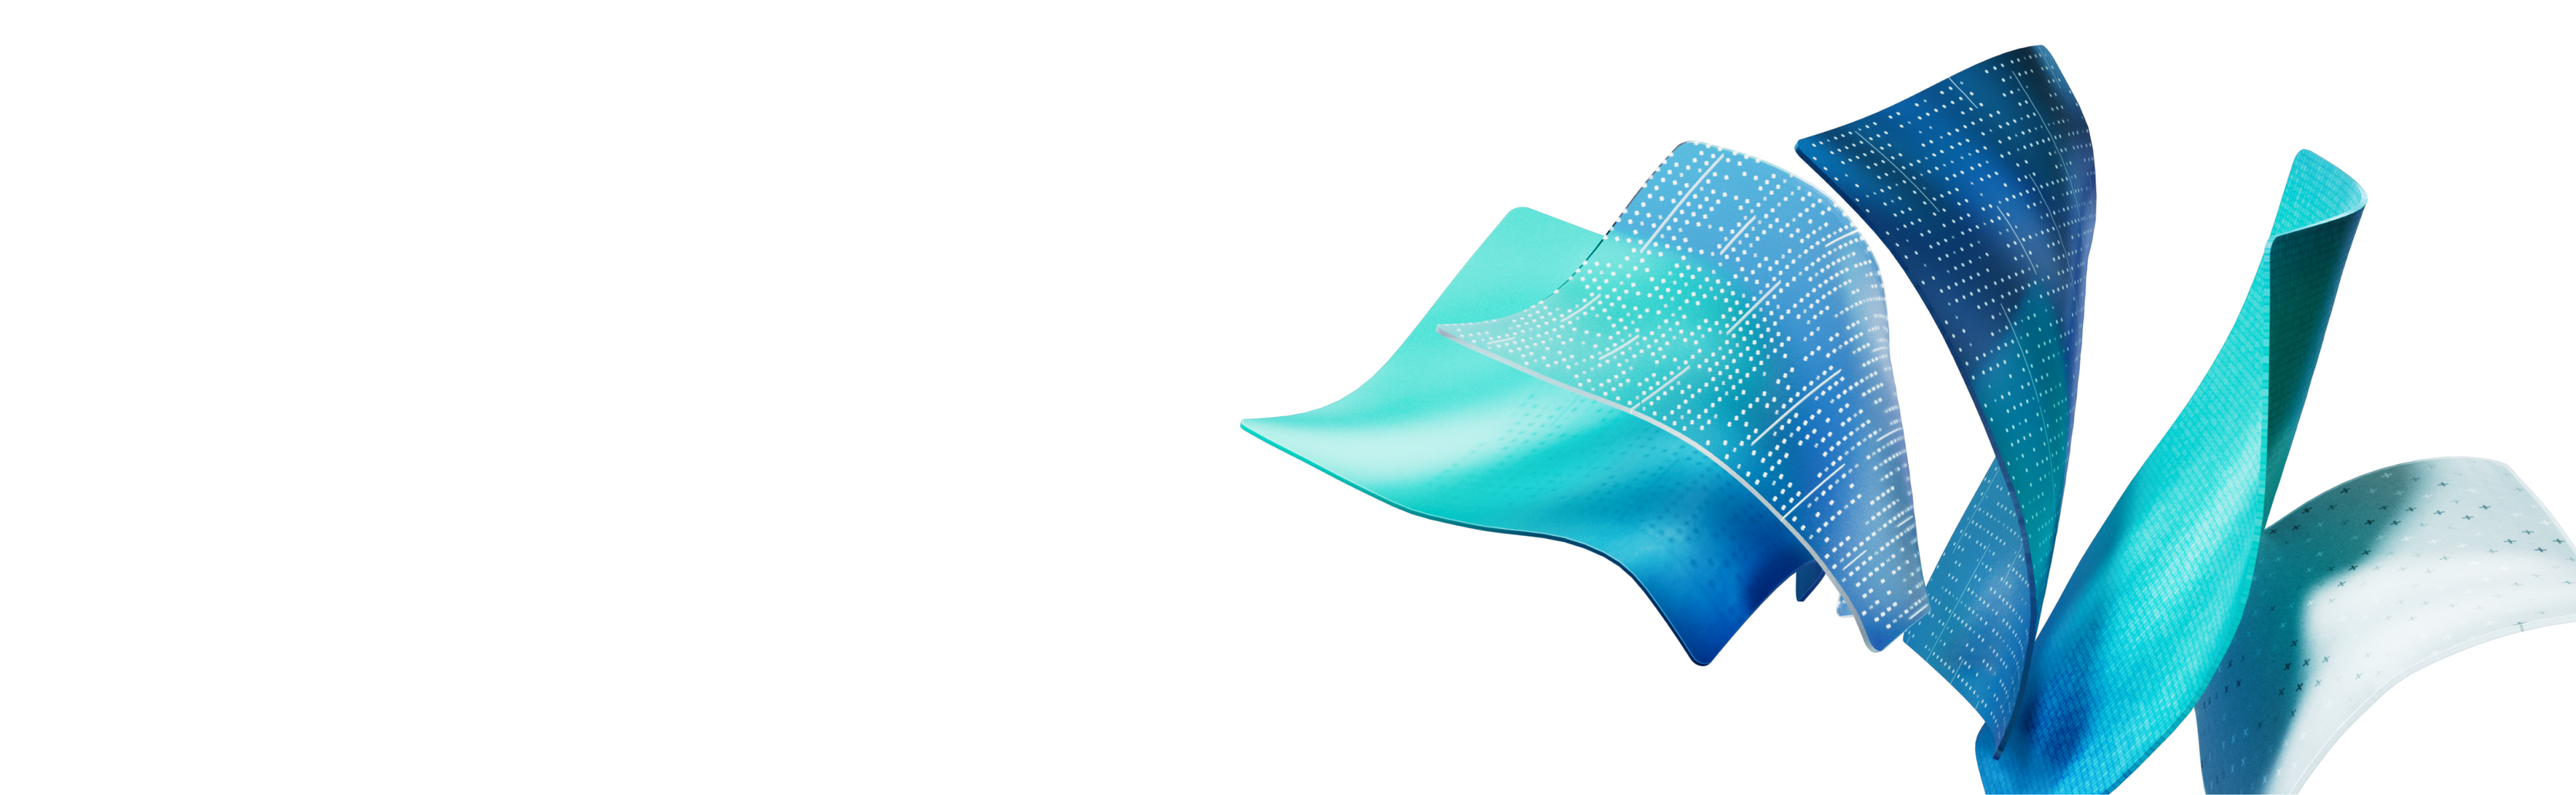
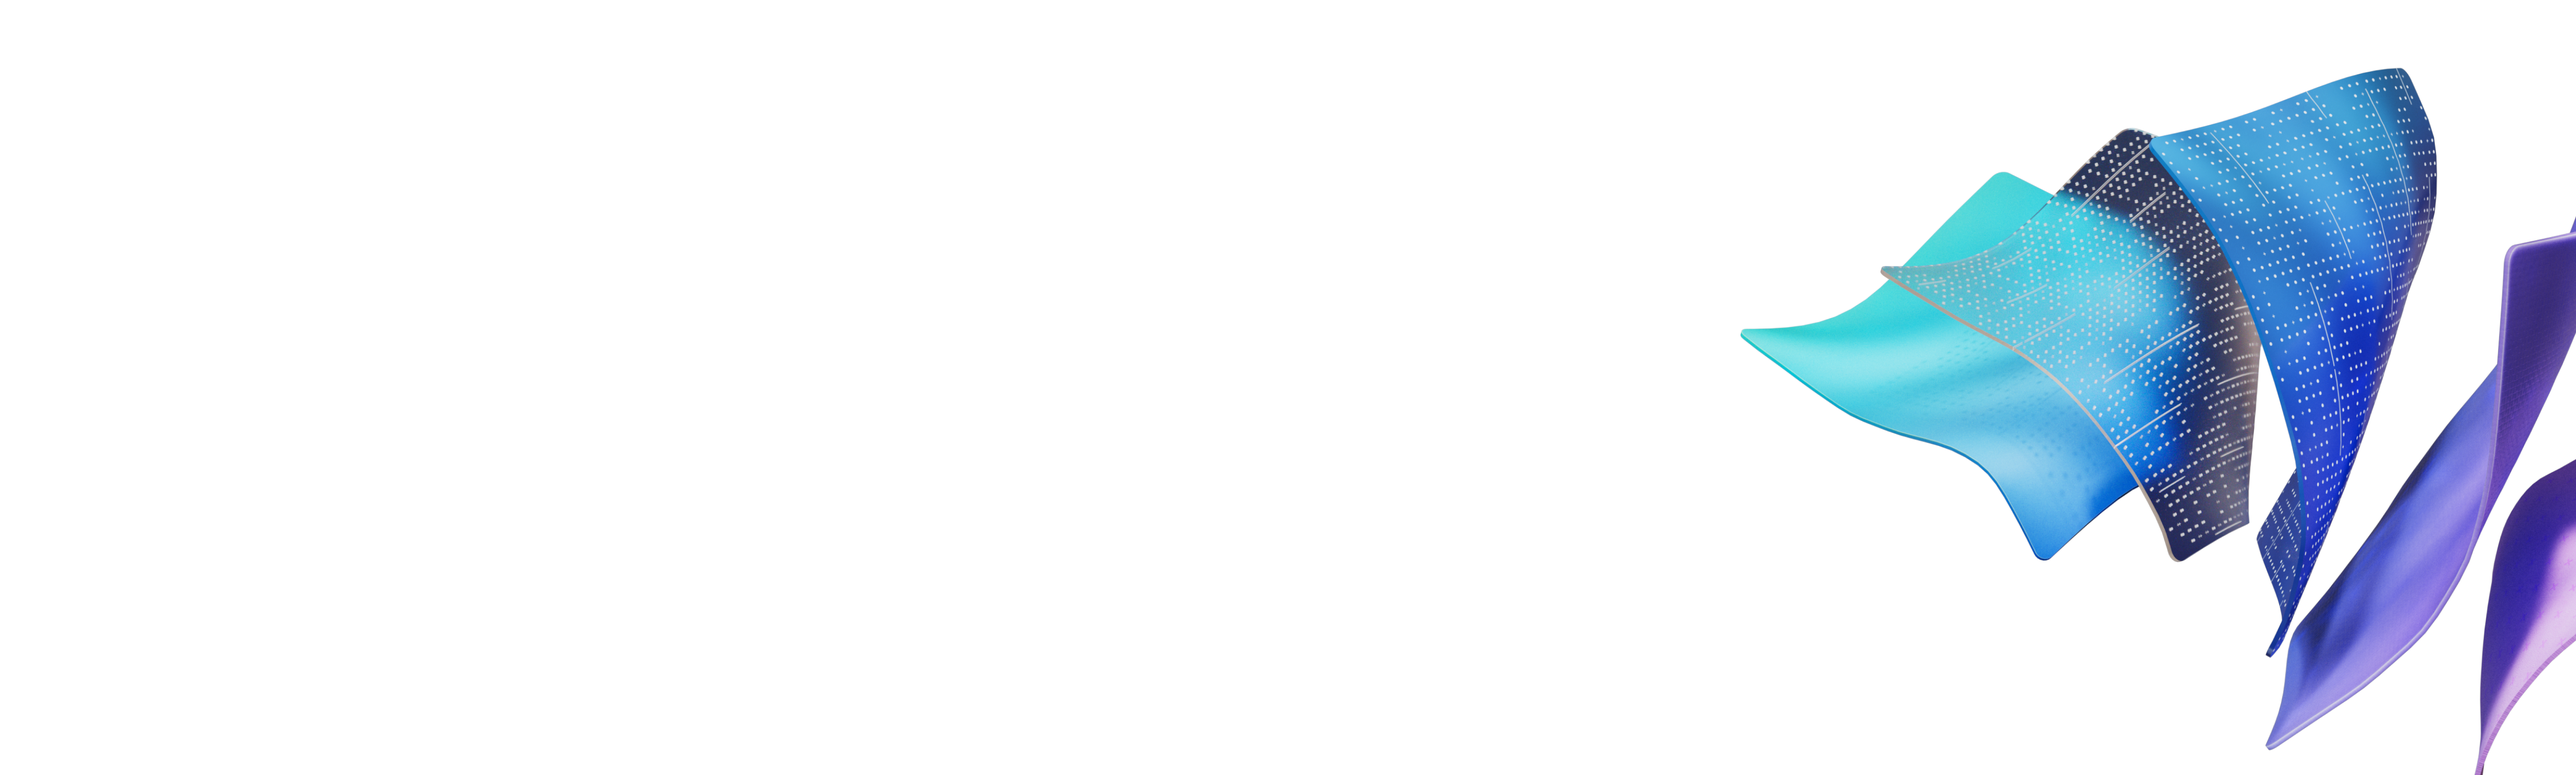
code cleanup

Changed region(s): [[0.4688, 0.0618, 1.0, 1.0]]

diff --git a/src/Views/WhatsNewPage.xaml b/src/Views/WhatsNewPage.xaml
@@ -22,8 +22,8 @@
                     <Color x:Key="CardBackground">#fdfdfd</Color>
                 </ResourceDictionary>
                 <ResourceDictionary x:Key="Dark">
-                    <x:String x:Key="BackgroundFront">/Assets/WhatsNewPage/DarkTheme/DevVisual_Splash_BUILD_M_v02_ox003_dark_01_noBG 2.png</x:String>
-                    <x:String x:Key="BackgroundBack">/Assets/WhatsNewPage/DarkTheme/DevVisual_Splash_BUILD_M_v02_ox003_dark_01_BG 2.png</x:String>
+                    <x:String x:Key="BackgroundFront">/Assets/WhatsNewPage/DarkTheme/BackgroundFront.png</x:String>
+                    <x:String x:Key="BackgroundBack">/Assets/WhatsNewPage/DarkTheme/BackgroundBack.png</x:String>
                     <x:String x:Key="BackgroundShadow">/Assets/WhatsNewPage/DarkTheme/BackgroundShadow.png</x:String>
                     <Color x:Key="CardBackground">#323232</Color>
                 </ResourceDictionary>
@@ -84,50 +84,6 @@
                     </StackPanel>
                 </Grid>
 
-                <!--<Grid 
-                    x:Name="ConnectDevIdContentArea"
-                    Grid.Row="1"
-                    Padding="28"
-                    CornerRadius="{ThemeResource ControlCornerRadius}"
-                    Margin="0 0 0 12"
-                    BorderBrush="{ThemeResource ControlElevationBorderBrush}"
-                    BorderThickness="{ThemeResource ExpanderBorderThickness}"
-                    Background="{ThemeResource CardBackground}">
-
-                    <Grid.ColumnDefinitions>
-                        <ColumnDefinition Width="30" />
-                        <ColumnDefinition Width="*" />
-                    </Grid.ColumnDefinitions>
-
-                    <Image Source="/Assets/WhatsNewPage/ConnectDevId.png"
-                        HorizontalAlignment="Left"
-                        VerticalAlignment="Top"
-                        Width="32"
-                        Height="32" />
-
-                    <StackPanel 
-                        Orientation="Vertical" 
-                        Grid.Column="1"
-                        Margin="10 0 5 5">
-                
-                        <TextBlock
-                            Grid.Column="1"
-                            FontSize="20"
-                            x:Uid="WhatsNewPage_DevIdCard_Title" />
-                
-                        <TextBlock
-                            Grid.Column="1"
-                            Margin="0 10"
-                            x:Uid="WhatsNewPage_DevIdCard_Description" />
-
-                        <Button
-                            Margin="0 10"
-                            Padding="30 7"
-                            x:Uid="WhatsNewPage_DevIdCard_Button"
-                            Click="ConnectToAccountsButton_Click" />
-                    </StackPanel>
-                </Grid>-->
-
                 <muxc:ItemsRepeater
                     Name="FeaturesContainer"
                     Grid.Row="1"
@@ -183,7 +139,6 @@
                                 BorderThickness="{ThemeResource ExpanderBorderThickness}">
 
                                 <Grid.ColumnDefinitions>
-                                    <!--<ColumnDefinition Width="48" />-->
                                     <ColumnDefinition Width="*" />
                                 </Grid.ColumnDefinitions>
 
@@ -210,12 +165,6 @@
                                         Margin="0 16 0 25"
                                         TextWrapping="Wrap"
                                         Text="{x:Bind Description}"/>
-
-                                    <!--<Button 
-                                        
-                                        HorizontalAlignment="Stretch"
-                                        Content="{x:Bind Button}"
-                                         />-->
 
                                 </StackPanel>
 

diff --git a/src/Models/WhatsNewCard.cs b/src/Models/WhatsNewCard.cs
@@ -19,11 +19,6 @@ public class WhatsNewCard
         get; set;
     }
 
-    public string? LearnMoreUrl
-    {
-        get; set;
-    }
-
     public string? Image
     {
         get; set;
